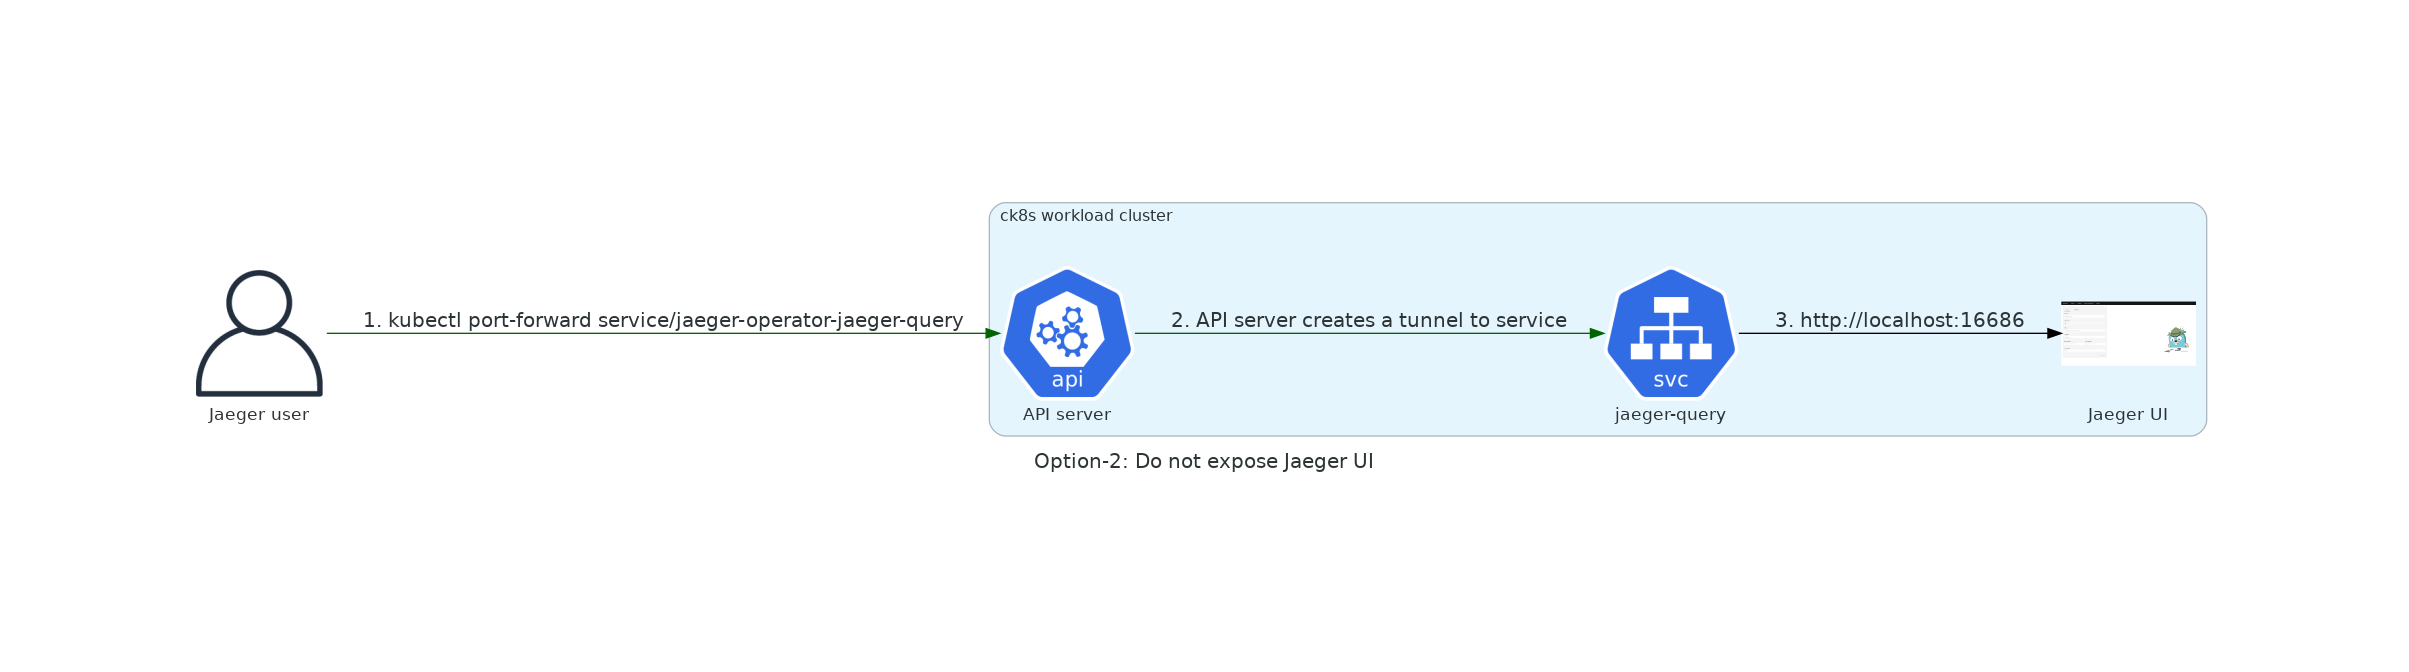
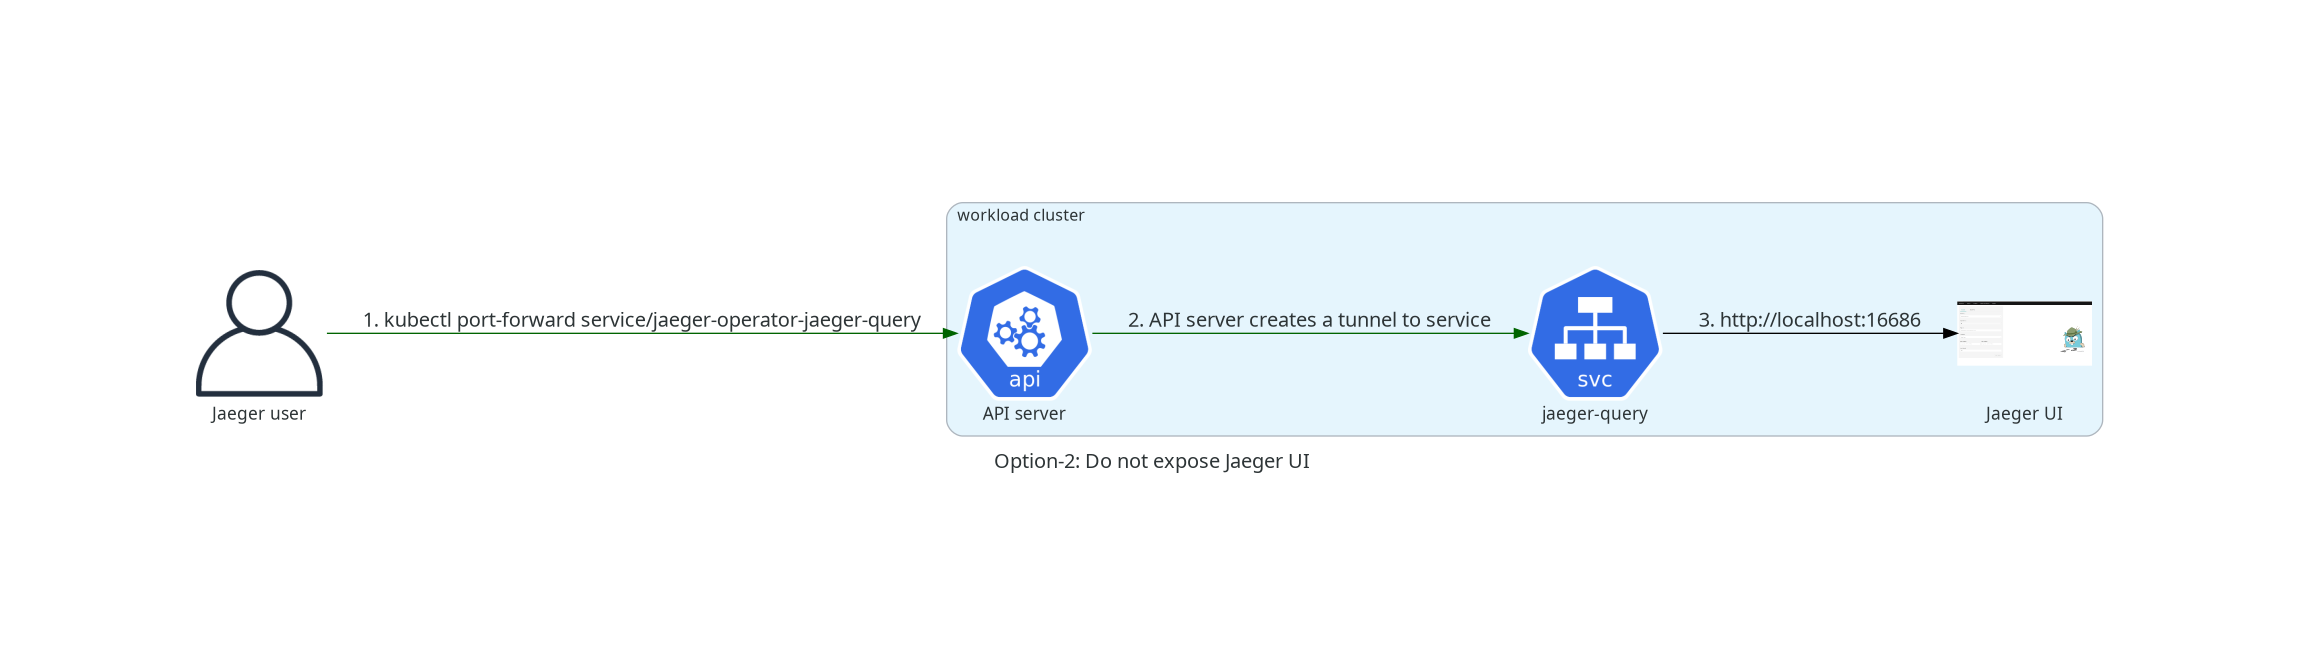
Rename to Welkin in ADR-0029

diff --git a/docs/img/adr/adr-0029-option4.py b/docs/img/adr/adr-0029-option4.py
@@ -13,7 +13,7 @@ with Diagram(name="Option-4: Expose Jaeger UI and audit access via request loggi
     user = User("Jaeger user")
     dex = Dex("Dex")
 
-    with Cluster("ck8s workload cluster"):
+    with Cluster("workload cluster"):
        svc = SVC("jaeger-query")
        jaeger_ui = [Custom("", "./adr-0029-Jaeger-UI.png")]
        svc >> Edge(label="5. Jaeger UI",color="darkgreen") >> jaeger_ui
@@ -30,6 +30,6 @@ with Diagram(name="Option-4: Expose Jaeger UI and audit access via request loggi
 
 
        ingress >> Edge(label="4. Allowed request",color="darkorange",fontsize="12") >> svc
-       user >> Edge(label="1. https://jaeger.abc-ck8s.com",color="darkgreen",fontsize="12") >> ingress
+       user >> Edge(label="1. https://jaeger.abc-welkin.com",color="darkgreen",fontsize="12") >> ingress
 
        oauth2Proxy >> Edge(label="Request logging enabled in OAuth2",color="darkorange",style="dashed",fontsize="12") >> logging

diff --git a/docs/img/adr/adr-0029-option3.py b/docs/img/adr/adr-0029-option3.py
@@ -15,7 +15,7 @@ with Diagram(
     dex = Dex("Dex")
 
 
-    with Cluster("ck8s workload cluster"):
+    with Cluster("workload cluster"):
        jaeger_ui = [Custom("", "./0029-Jaeger-UI.png")]
        ingress_label = ("IP allowlist\n managed at\n Ingress")
        oauth2_label = ("OAuth2 Additional\n protection like\n Domain,Groups,Request\n logging")
@@ -38,5 +38,5 @@ with Diagram(
          oauth2Proxy >> Edge(label="4. Upstream jaeger internal service",color="darkorange",fontsize="12") >> svc
 
          oauth2Proxy >> Edge(label="",style="dashed") >> oauth2_node
-         user >> Edge(label="1. https://jaeger.abc-ck8s.com",color="darkgreen",fontsize="12") >> ingress
+         user >> Edge(label="1. https://jaeger.abc-welkin.com",color="darkgreen",fontsize="12") >> ingress
          ingress >> Edge(label="",style="dashed") >> ingress_node

diff --git a/docs/img/adr/adr-0029-option1.py b/docs/img/adr/adr-0029-option1.py
@@ -12,7 +12,7 @@ with Diagram(name="Option-1: Expose Jaeger UI via ingress in wc cluster and use 
     user = User("Jaeger user")
     dex = Dex("Dex")
 
-    with Cluster("ck8s workload cluster"):
+    with Cluster("workload cluster"):
        svc = SVC("jaeger-query")
        jaeger_ui = [Custom("", "./adr-0029-Jaeger-UI.png")]
        svc >> Edge(label="5. Jaeger UI",color="darkgreen") >> jaeger_ui
@@ -27,4 +27,4 @@ with Diagram(name="Option-1: Expose Jaeger UI via ingress in wc cluster and use 
 
 
        ingress >> Edge(label="4. Allowed request",color="darkorange") >> svc
-       user >> Edge(label="1. https://jaeger.abc-ck8s.com",color="darkgreen") >> ingress
+       user >> Edge(label="1. https://jaeger.abc-welkin.com",color="darkgreen") >> ingress

diff --git a/docs/img/adr/adr-0029-option2.py b/docs/img/adr/adr-0029-option2.py
@@ -8,7 +8,7 @@ from diagrams.k8s.controlplane import API
 with Diagram(name="Option-2: Do not expose Jaeger UI", show=False,filename="adr-0029-option2"):
     user = User("Jaeger user")
 
-    with Cluster("ck8s workload cluster"):
+    with Cluster("workload cluster"):
        jaeger_ui = [Custom("Jaeger UI", "./adr-0029-Jaeger-UI.png")]
        kube_api = API("API server")
        svc = SVC("jaeger-query")
